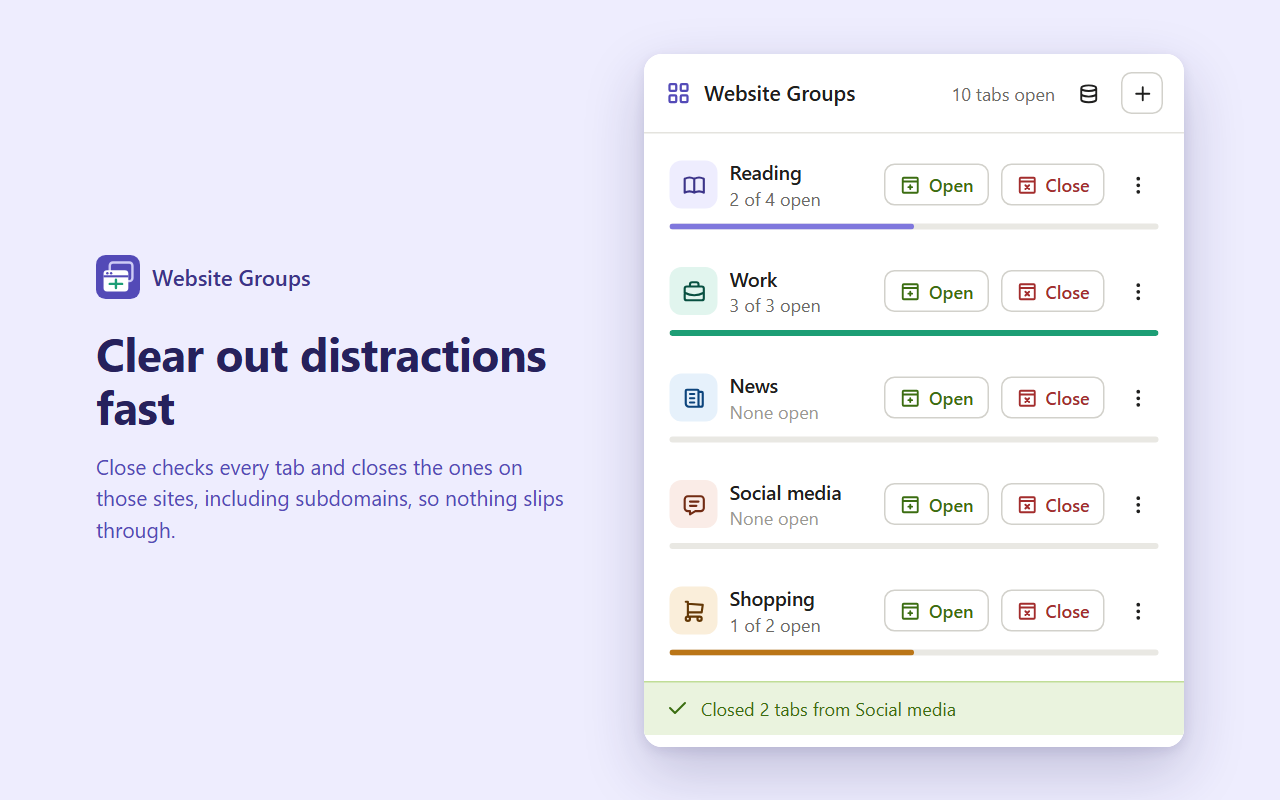
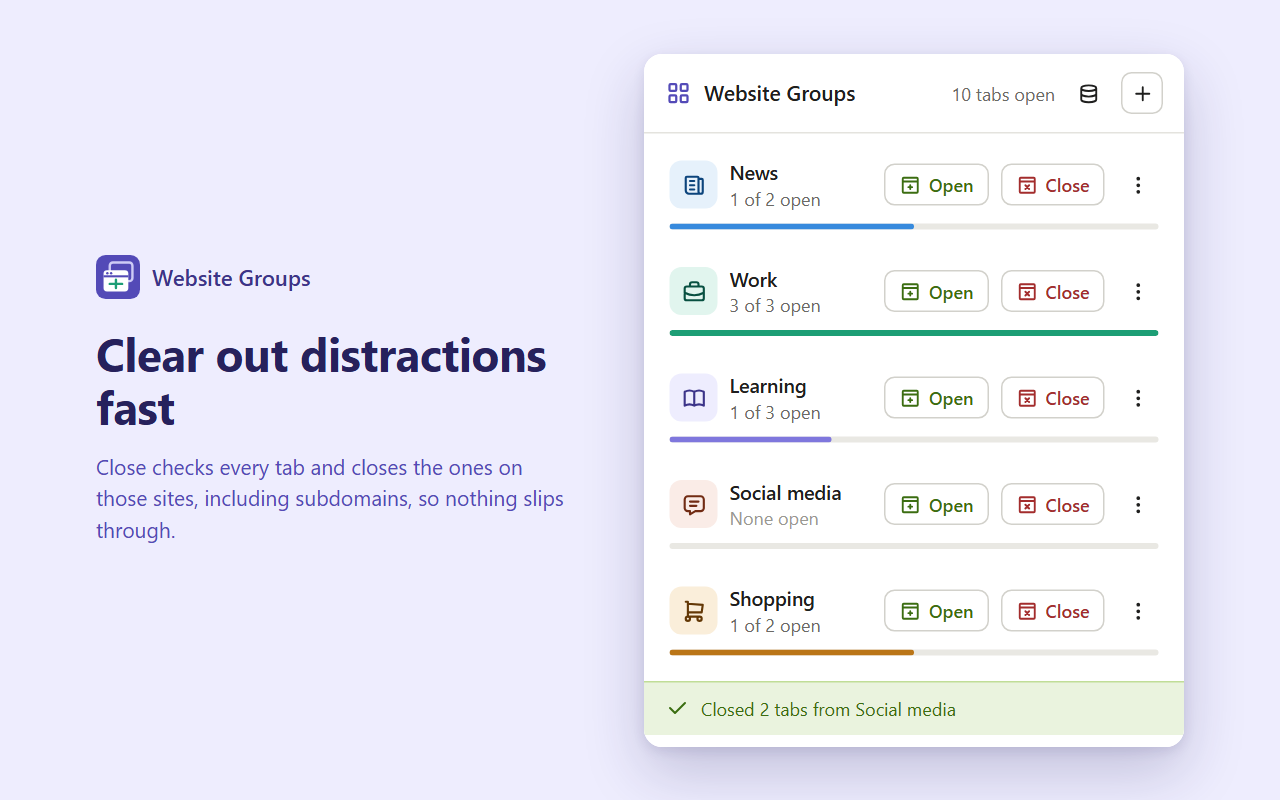
Add the store's public key and refresh the store screenshots
The key gives the unpacked development copy the same extension ID as
the Chrome Web Store version (kiacknbdngediookdopfcjplciokcokm).
build.py leaves it out of the store package. The screenshots now use
a News group with cnbc.com and wsj.com as sample data.

Changed region(s): [[0.5312, 0.4688, 0.6562, 0.5625], [0.5312, 0.2812, 0.7188, 0.3125], [0.5312, 0.1875, 0.625, 0.25]]

diff --git a/build.py b/build.py
@@ -27,7 +27,13 @@ if not referenced <= set(FILES):
 
 os.makedirs("dist", exist_ok=True)
 out = f"dist/website-groups-{manifest['version']}.zip"
+# "key" only keeps the unpacked development copy on the store's extension ID.
+# The store already knows the key, so it's left out of the package.
+store_manifest = {k: v for k, v in manifest.items() if k != "key"}
 with zipfile.ZipFile(out, "w", zipfile.ZIP_DEFLATED) as z:
     for f in FILES:
-        z.write(f, f)
+        if f == "manifest.json":
+            z.writestr(f, json.dumps(store_manifest, indent=2, ensure_ascii=False) + "\n")
+        else:
+            z.write(f, f)
 print(f"Built {out} ({os.path.getsize(out):,} bytes, {len(FILES)} files)")

diff --git a/README.md b/README.md
@@ -34,7 +34,7 @@ Each line in a group is either a web address or a keyword:
 2. Open `chrome://extensions` and turn on **Developer mode**.
 3. Click **Load unpacked** and choose the repository folder.
 
-Chrome works out an unpacked extension's ID from its folder path, so moving or renaming the folder gives it a new ID with empty storage. Export your groups first from the backup page.
+The `key` in `manifest.json` gives the unpacked copy the same extension ID as the Chrome Web Store version (`kiacknbdngediookdopfcjplciokcokm`), so it keeps the same saved groups wherever the folder is. Because the IDs match, remove the store version before loading the unpacked one.
 
 ## Build the store package
 
@@ -42,7 +42,7 @@ Chrome works out an unpacked extension's ID from its folder path, so moving or r
 python build.py
 ```
 
-This creates `dist/website-groups-<version>.zip` with only the files the extension needs. Increase `version` in `manifest.json` before building an update.
+This creates `dist/website-groups-<version>.zip` with only the files the extension needs, and leaves `key` out of its manifest. Increase `version` in `manifest.json` before building an update.
 
 ## Files
 
